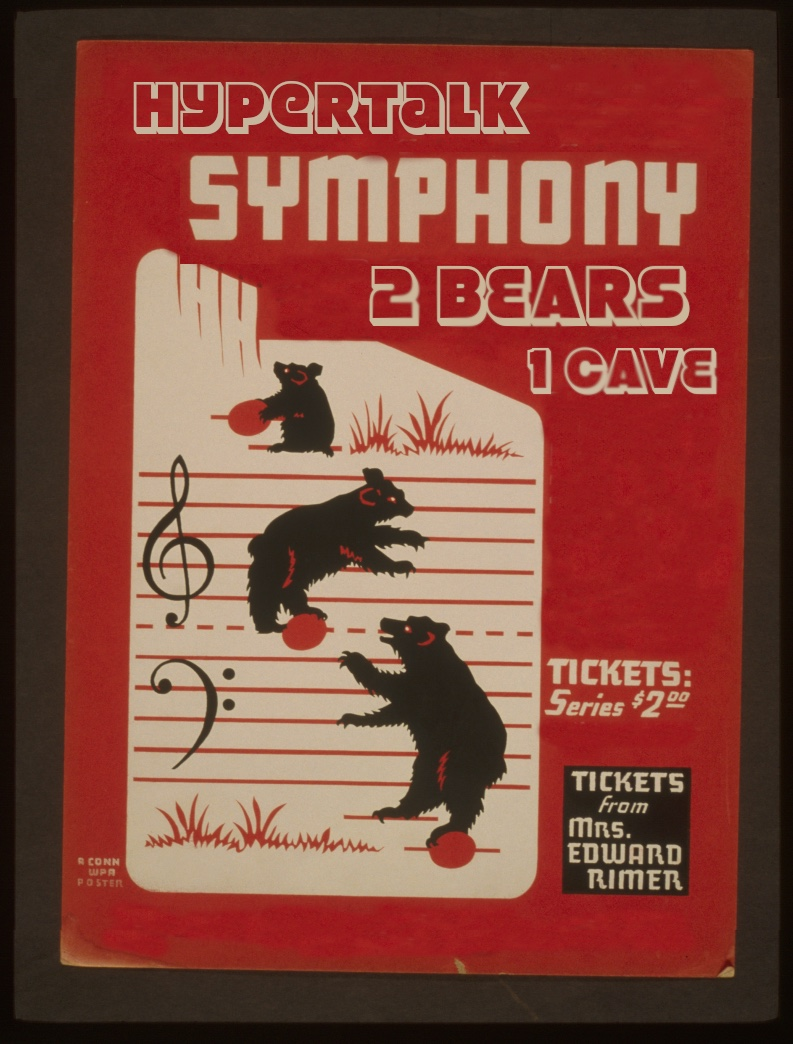
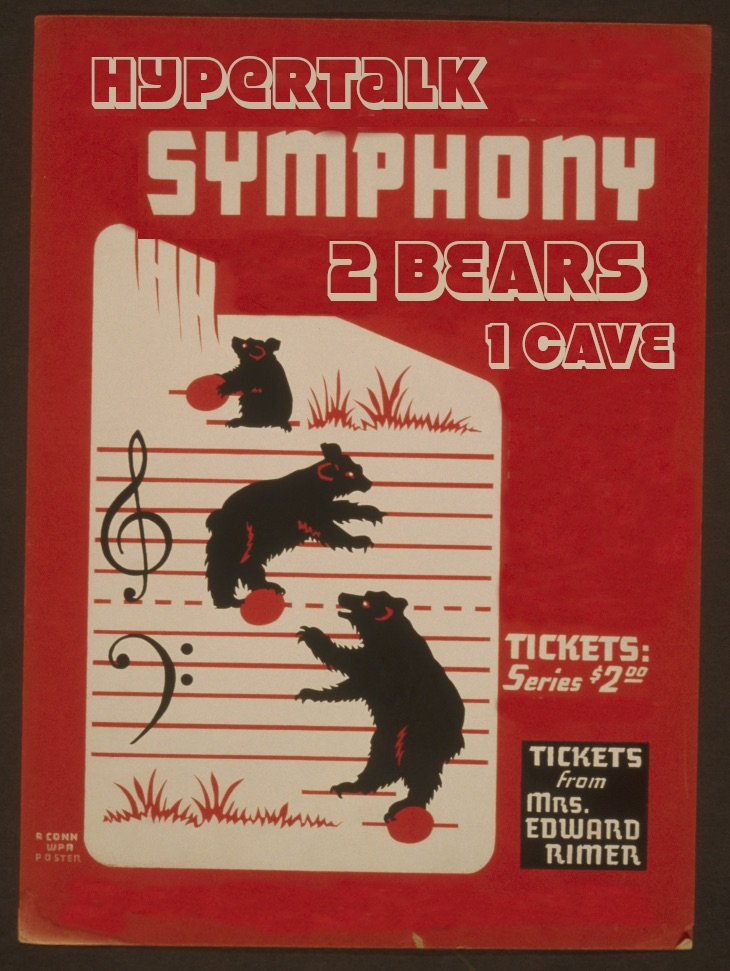
working on tilt

diff --git a/assets/css/main.css b/assets/css/main.css
@@ -107,7 +107,10 @@ html,
 body {
 
 }
-
+.audio-card-img {
+  max-width: 400px;
+  max-height: 600px;
+}
 .four-thousand-controls {
   /* text-align: center; */
   /* width: 100%; */
@@ -152,13 +155,16 @@ border-color: transparent;
 background-color: white;
 }
 
+.song-title-name {
+  padding: 15px 0px 15px 0px;
+}
 /*changes navbar text color*/
 .navbar-nav {
   color: #555 !important;
 }
 
 .audio-card {
-
+  border: 0px;
 }
 
 /*changes navbar link text color*/

diff --git a/2-bears/index.html b/2-bears/index.html
@@ -75,7 +75,7 @@
             <p></p>
 
             <div class="card audio-card">
-                <img class="card-img-top" src="../assets/img/two-bear-symphony.jpg" alt="four thousand" width="400">
+                <img class="card-img-top audio-card-img" src="../assets/img/two-bear-symphony.jpg" alt="four thousand">
 
                 <div class='song-title-name'>
                         two-bears-theme.mp3
